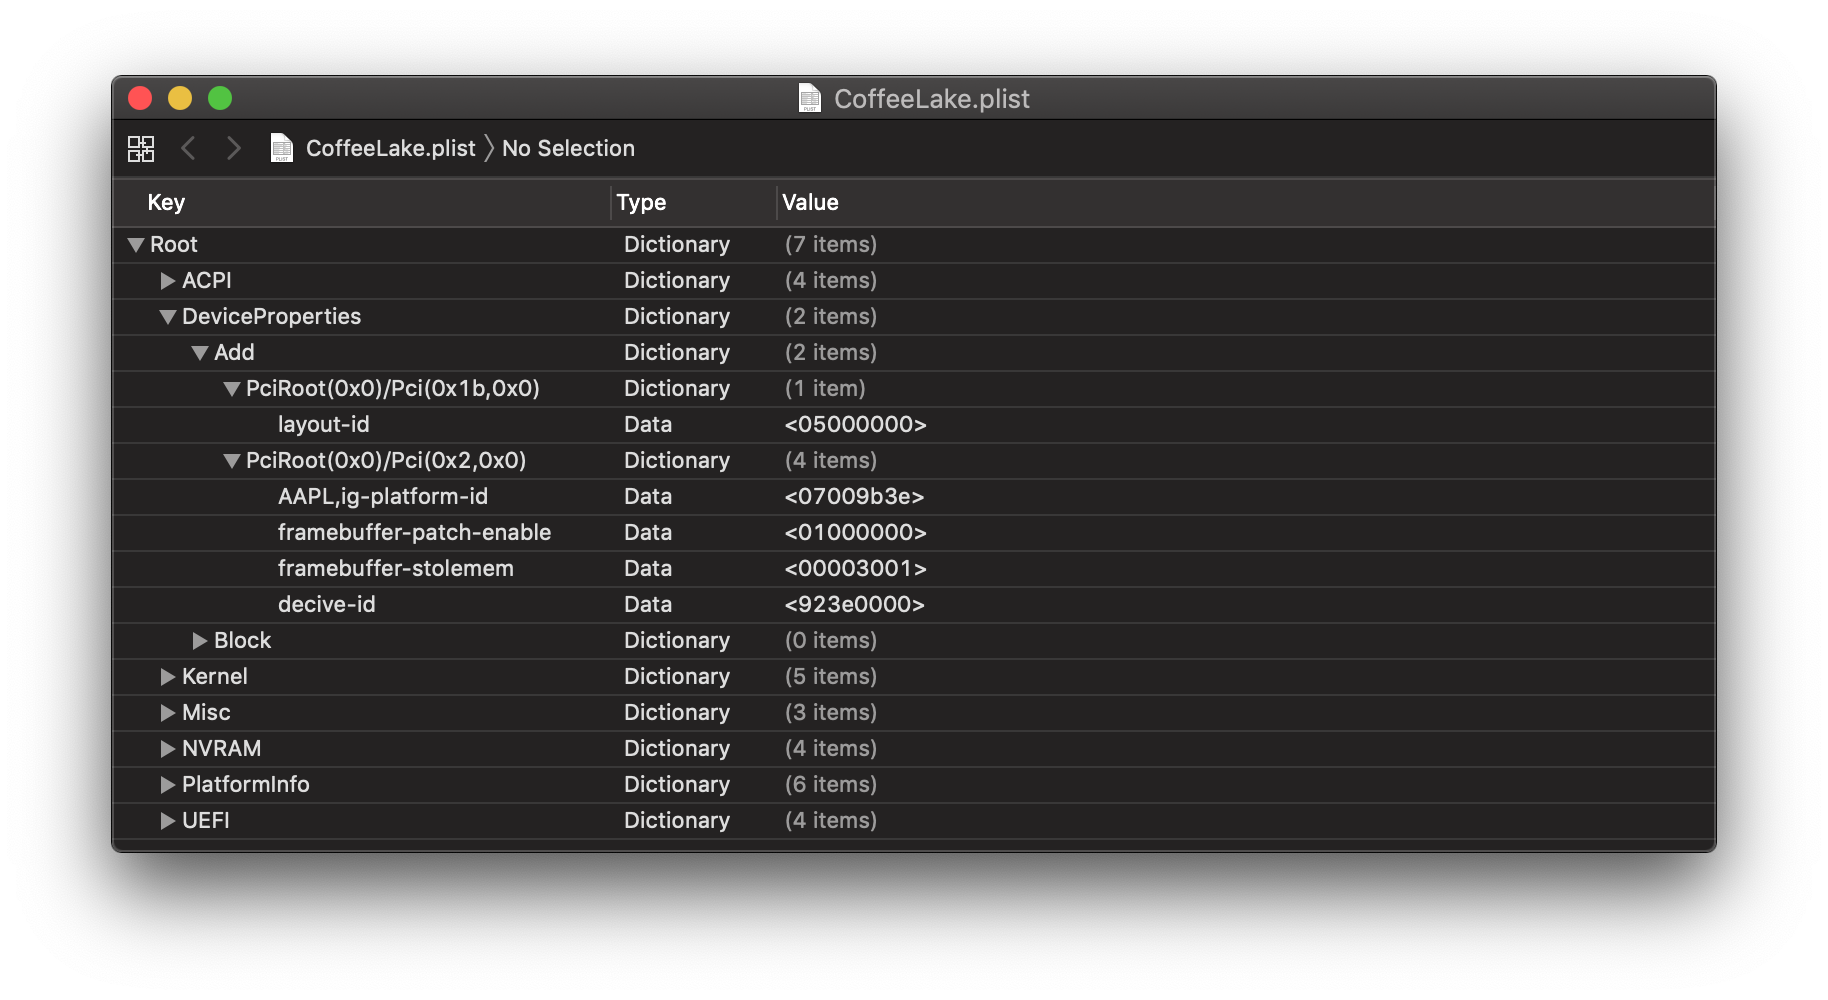
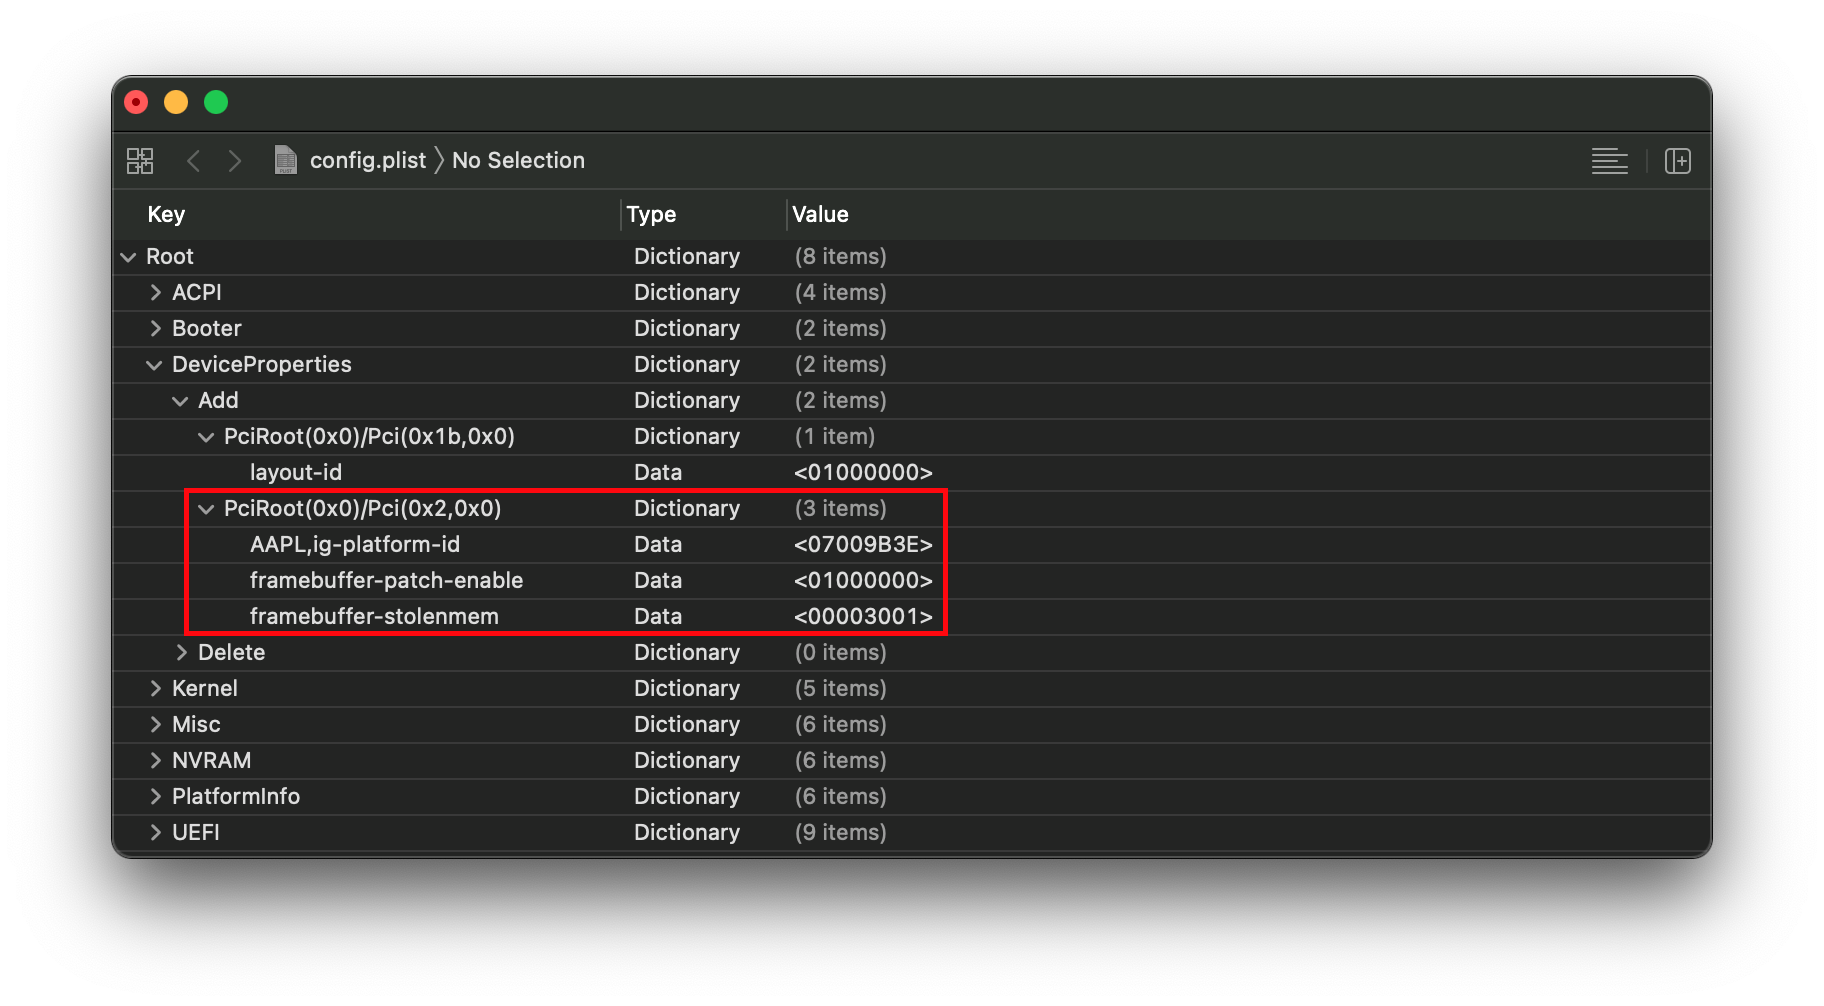
Fix CFL/CML iGPU properties

Changed region(s): [[0.0625, 0.062, 0.9375, 0.868], [0.875, 0.124, 0.9375, 0.186], [0.9062, 0.837, 0.9375, 0.868]]

diff --git a/config.plist/comet-lake.md b/config.plist/comet-lake.md
@@ -103,7 +103,7 @@ This section is set up via WhateverGreen's [Framebuffer Patching Guide](https://
 `AAPL,ig-platform-id` is what macOS uses to determine how the iGPU drivers interact with our system, and two values choose between are as follows:
 
 * `07009B3E` - this is used when the Desktop iGPU is used to drive a display
-* `0300923E` - this is used when the Desktop iGPU is only used for computing tasks and doesn't drive a display
+* `0300C89B` - this is used when the Desktop iGPU is only used for computing tasks and doesn't drive a display
 
 We also add 2 more properties, `framebuffer-patch-enable` and `framebuffer-stolenmem`. The first enables patching via WhateverGreen.kext, and the second sets the min stolen memory to 19MB. This is usually unnecessary, as this can be configured in BIOS(64MB recommended) but required when not available.
 

diff --git a/config.plist/coffee-lake.md b/config.plist/coffee-lake.md
@@ -102,7 +102,7 @@ This section is set up via WhateverGreen's [Framebuffer Patching Guide](https://
 `AAPL,ig-platform-id` is what macOS uses to determine how the iGPU drivers interact with our system, and the two values choose between are as follows:
 
 * `07009B3E` - this is used when the Desktop iGPU is used to drive a display
-* `0300923E` - this is used when the Desktop iGPU is only used for computing tasks and doesn't drive a display
+* `0300913E` - this is used when the Desktop iGPU is only used for computing tasks and doesn't drive a display
 
 **Note**: With macOS 10.15.5, there seems to be a lot of issues with black screen using `07009B3E`, if you get similar issues try swapping to `00009B3E`
 
